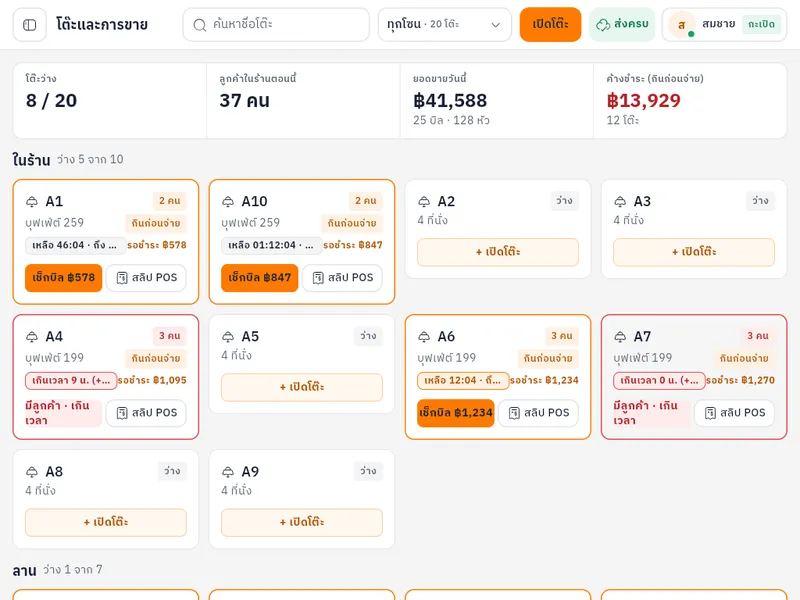
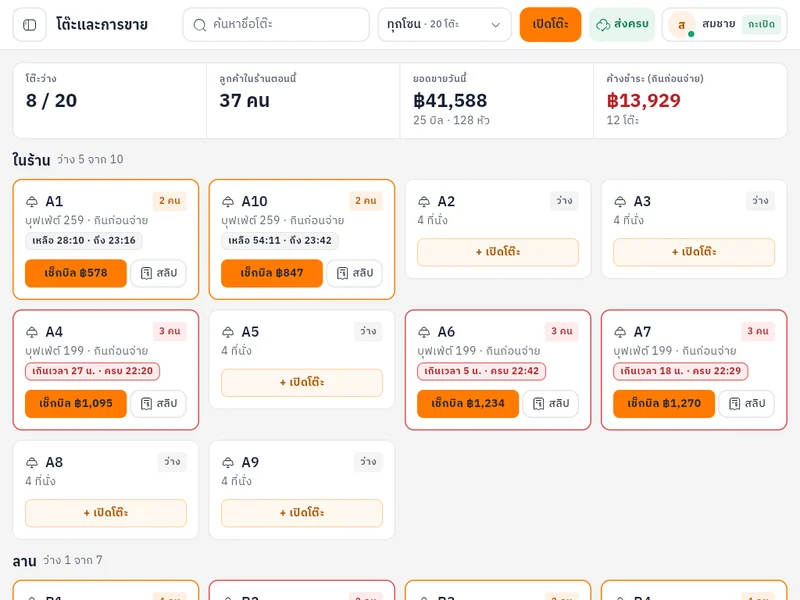
chore(site): update hero, tables, and shift screenshots with latest POS UI

diff --git a/TASK_STATE.md b/TASK_STATE.md
@@ -1,27 +1,18 @@
 # Active Task Handoff State (Updated: 2026-11-11)
-- **Current Phase:** Post-Go-Live / UI Polish on `main` (`M0–M6 DONE`, Production Live on `main`)
+- **Current Phase:** Marketing Site Screenshot Refresh on `feat/marketing-site` (Merged with `main@a224e34`)
 - **Production & Backend Status:**
-  - **Git Branch:** `main` (`71f5b50` — Agent Guard Template synced; `TableCard` UI density refinement in progress)
-  - **Vercel Production URLs:** `https://keptoh-staging.vercel.app` (Primary) and `https://keptohpos-v2-prototype.vercel.app`
+  - **Git Branch:** `feat/marketing-site` (Merged `main` UI updates + refreshed `.webp` screenshots in `site/public/shots/`)
+  - **Cloudflare Pages Preview:** `keptoh` project (`branch: review`) · **Vercel POS App:** `https://keptoh-staging.vercel.app`
   - **Supabase Project:** `pbujdexhdzglymgnbsuw` (All migrations `000100` through `20261110000100_fix_FullTaxInvoice_exchange_rounding.sql` pushed)
-- **Recent Feedback Fixes Completed (`2026-11-11`, on `main`):**
-  - **Shift Close Guard (`ShiftBloc` / `ShiftPage` / `OwingTablesBanner` / `closeCashShift`):** Blocked closing a shift whenever `openTables.isNotEmpty` (both unpaid `กินก่อนจ่าย` and paid `จ่ายก่อนกิน` tables waiting for `เก็บโต๊ะ`), disabling `close-shift-btn` and displaying a clear banner with open table names.
-  - **UI Item 3 (`BusyOverlay` / `WalkingOrangeLoader`):** Removed the white box container from `BusyOverlay` (`onScrim: true`), enlarged the central default `size` from `210` to `260`, and removed hardcoded `size: 180` overrides across sub-pages.
-  - **UI Item 2 (`d2d74bc` — `OnboardingLoadingCard` / `index.html`):** Unified boot loader to the single Flutter `WalkingOrangeLoader` across Web/Android/iOS.
-  - **UI Item 1 (`57701cb` — `TableCard` / `TableLiveTimer` / `ZoneTablesSection`):** De-cluttered occupied table card and widened zone grid breakpoints to 4 columns below `1440px`.
+- **Recent Completed Work (`2026-11-11`):**
+  - **Marketing Site Screenshots (`site/public/shots/{hero,tables,shift}{,-800}.webp`):** Merged `main` into `feat/marketing-site`, captured new `1024x768` screenshots from Local Supabase Demo Shop (`DEC0DE0001`, PIN `1234`), converted to `1024w` and `800w` `.webp`, and verified `astro build` in `site/`.
+  - **Shift Close Guard (`a224e34`):** Blocked closing a shift whenever `openTables.isNotEmpty` and updated `OwingTablesBanner`.
+  - **UI Item 1–3 (`57701cb`, `d2d74bc`, `a224e34`):** De-cluttered occupied `TableCard`, unified single `WalkingOrangeLoader`, and made `BusyOverlay` frameless (`size: 260`).
 - **Active Project Constraints (See `.claude/rules/project-pitfalls.md` — `11/30` rules):**
   - Money stored in satang (`int`) · Every `app/lib/**/*.dart` (excl. `*.g.dart`) `<= 300` lines · Never read/edit `.env*`
   - Test commands: `cd app && flutter analyze lib test` and `cd app && flutter test <target_test_file>`
 - **Next Immediate Step:**
-  - Verify live Vercel deployment (`https://keptoh-staging.vercel.app`) for frameless `WalkingOrangeLoader(size: 260)` and shift-close open-table guard.
+  - Review updated marketing site preview on Cloudflare Pages (`branch: review`) and merge `feat/marketing-site` when ready.
 
-## 🔄 Auto-Synced Git & Session State (Updated: 2026-11-11 14:31:26)
-- **Branch & HEAD:** `main` (`d2d74bc`)
-- **Last Edit Checkpoint:** `last_agent=antigravity | last_edited_file=/Users/nontawatwongnuk/dev_bos/KepTohPOS-V2/TASK_STATE.md | diff=+7/-7 บรรทัด | updated_at=2026-11-11T07:31:24Z`
-- **Uncommitted Changes:** `M app/lib/core/widgets/busy_overlay.dart; M app/lib/core/widgets/lottie_loading.dart; M app/lib/features/bills/presentation/pages/bills_page.dart; M app/lib/features/onboarding/presentation/owner_shop_step.dart; M app/lib/features/reports/presentation/widgets/sales_tax_report_tab.dart; M app/lib/features/setup/presentation/widgets/setup_devices_panel.dart`
-- **Recent Commits (`git log -n 5`):**
-  - `d2d74bc refactor(web): remove duplicate HTML boot loader so Flutter WalkingOrangeLoader is the single cross-platform loader`
-  - `5211397 fix(onboarding): keep WalkingOrangeLoader visible throughout boot and browser refresh`
-  - `57701cb feat(tables): declutter occupied TableCard UI and widen zone grid breakpoints`
-  - `71f5b50 chore(agent): sync governance rules, verify command, and handoff state`
-  - `94ce7cf chore(agent-guard): upgrade to Single Source of Truth + Pitfall Memory & Next Steps reporting`
+## 🔄 Auto-Synced Git & Session State (Updated: 2026-11-11 23:07:30)
+- **Branch & HEAD:** `feat/marketing-site` (`e1c4fdd`)
